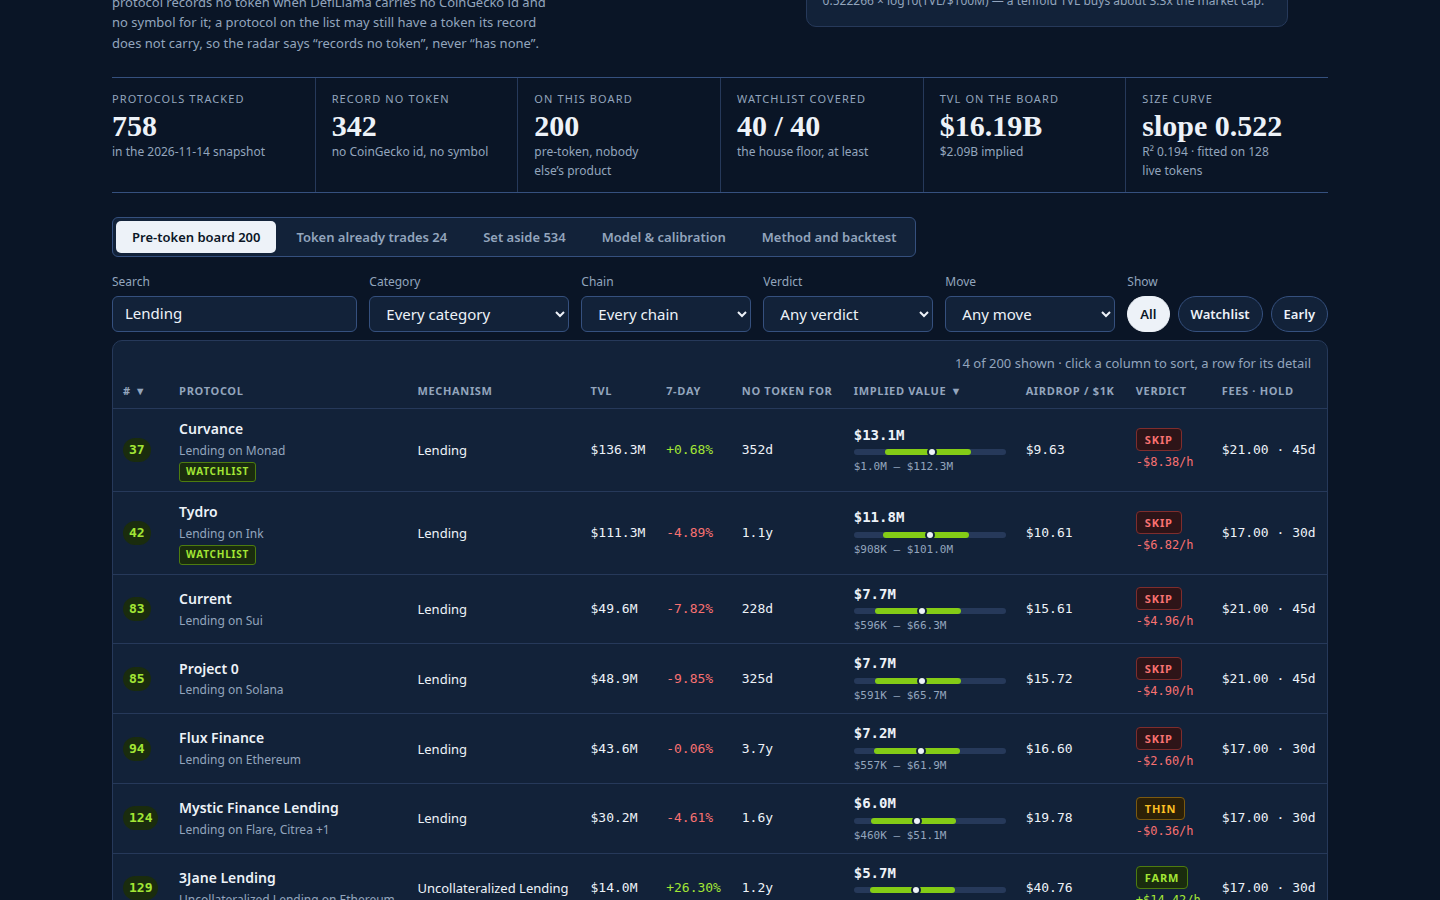
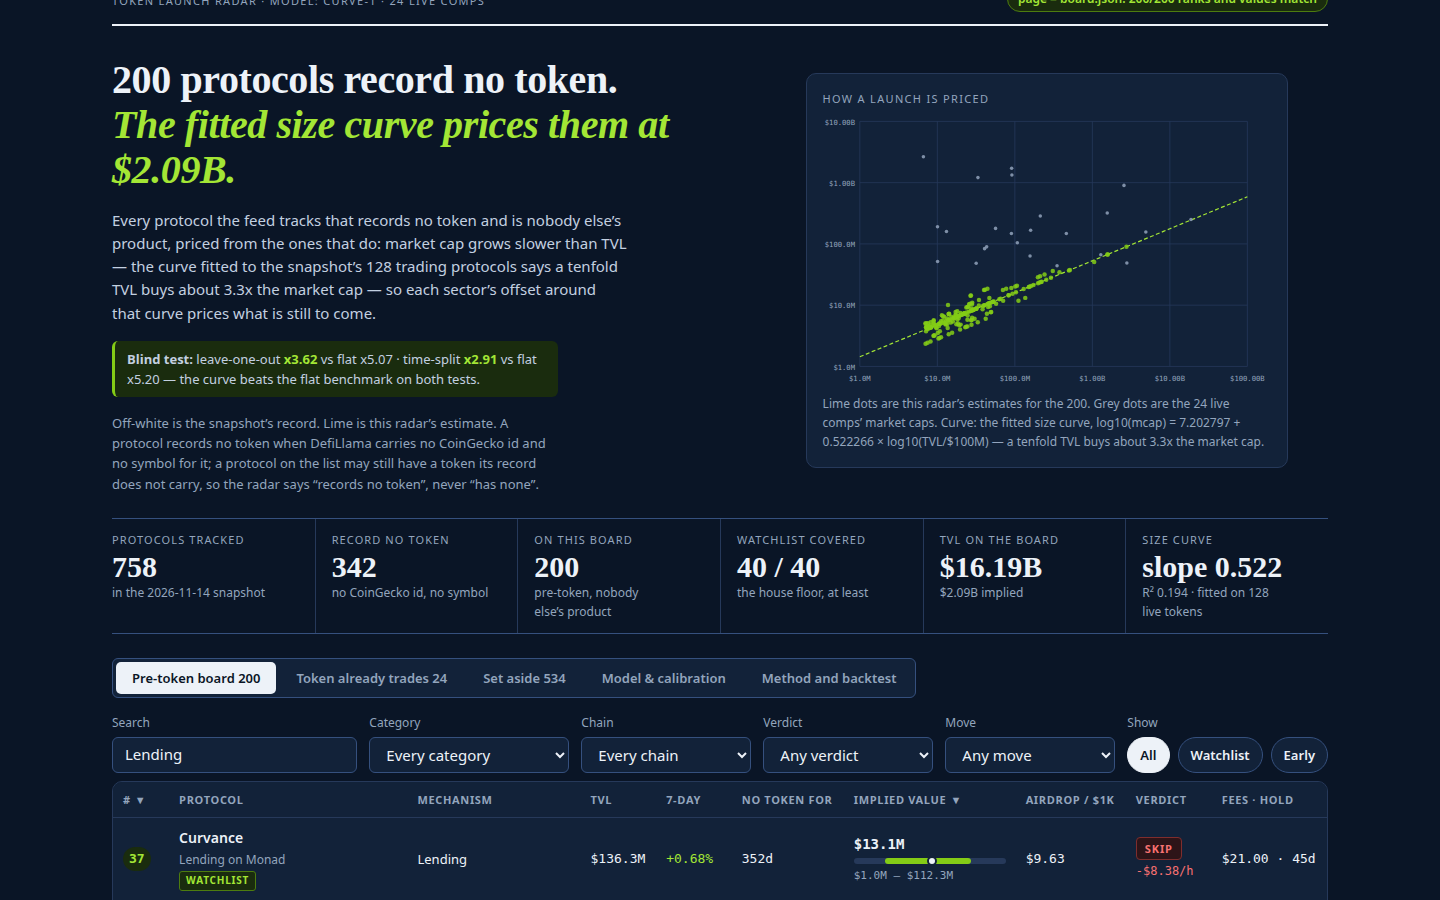
layout: move row-count text out of the table panel, below it

diff --git a/dashboard/app.js b/dashboard/app.js
@@ -437,12 +437,10 @@
       );
       tbody.appendChild(tr);
     });
-    return el('div', { class: 'panel' },
-      el('div', { class: 'table-meta' },
-        el('span', { class: 'count', text: list.length + ' of ' + DATA.board_size + ' shown \u00b7 click a column to sort, a row for its detail' })
-      ),
-      el('div', { class: 'table-wrap' },
-        el('table', { class: 'board-table' },
+    return el('div', null,
+      el('div', { class: 'panel' },
+        el('div', { class: 'table-wrap' },
+          el('table', { class: 'board-table' },
           el('thead', null, el('tr', null,
             sortHeader('implied', '#'),
             sortHeader('name', 'Protocol'),
@@ -457,8 +455,11 @@
           )),
           tbody
         )
+      ),
+      el('div', { class: 'table-meta' },
+        el('span', { class: 'count', text: list.length + ' of ' + DATA.board_size + ' shown \u00b7 click a column to sort, a row for its detail' })
       )
-    );
+    ));
   }
 
   function liveTable() {

diff --git a/dashboard/app.css b/dashboard/app.css
@@ -128,7 +128,7 @@ a { color: var(--accent); }
 .pill { min-height: 36px; padding: 0 var(--step-3); border: 1px solid var(--border-strong); border-radius: 999px; background: var(--surface); font-size: 13px; font-weight: 600; }
 .pill.active { background: var(--ink); border-color: var(--ink); color: var(--paper); }
 .count { margin-left: auto; color: var(--muted); font-size: 13px; }
-.table-meta { display: flex; justify-content: flex-end; padding: var(--step-3) var(--step-4) 0; }
+.table-meta { display: flex; justify-content: flex-end; padding: var(--step-2) 0 0; }
 
 /* Panels, tables, the live note. */
 .panel { background: var(--surface); border: 1px solid var(--border); border-radius: var(--radius-panel); overflow: hidden; }
